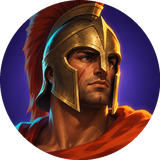
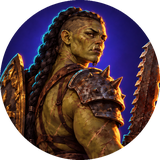
Portreler: 14 kahraman kullanıcı tasarımlarından bugünkü stilde yeniden üretildi
Claude-Session: https://claude.ai/code/session_01T7LLnVG2eHFoAXpQ6vCWxw

diff --git a/CLAUDE.md b/CLAUDE.md
@@ -130,7 +130,7 @@ Haxball tarzı yuvarlak token karakterli 2D MOBA. Tarayıcıda çalışır, şim
 11. Bot ayar araması (evolve) en son, denge oturunca.
 - Üretilmiş görseller: assets/menu_bg.jpg (menü arka planı) ve assets/portre/<id>.jpg (menü kart portreleri), yerel Stable Diffusion DreamShaper 8 ile (tools/sdgen.mjs, tools/sd_portreler.mjs; ham çıktılar assets/sd/). WebUI: Masaüstü\StableDiffusion\webui-user.bat, API localhost:7860. Gemini ücretsiz kotası 0 (kullanılamıyor).
 - Higgsfield görselleri (10.10.2026, ~34 kredi): model GPT Image 2.5 (flare, low, 0,25 kredi; Z Image denendi, daha zayıf). assets/menu_bg2.jpg (menü), assets/pause_bg.jpg (duraklatma/sonuç), assets/tex/{ground,lane,rock,bush}.jpg (aynalanarak dikişsiz; art.js texFill/texReady, paintMap'te düşük alfa overlay, yüklenmezse eski çizim), assets/items/<id>.jpg (100 eşya/parça simgesi, mağazada main.js icoImg, HUD yuvalarında render.js itemIcon; yüklenmezse kısaltma rozeti). Menü döngü videosu MiniMax H3 Max 480p 5 sn, başlangıç=bitiş karesi (7,5 kredi): assets/menu_loop.webm + .mp4 (menu.js menuVideo; açılmazsa CSS görseli). Ham çıktılar assets/hf_raw/ (gitignore). Dükkân binası assets/shop.png (GPT Image 2.5 saydam, render.js drawShops SHOP_IMG; yüklenmezse canvas çizimi). Ekran görüntüleri docs/hf/.
-- Kahraman portreleri (15.10.2026, Higgsfield GPT Image 2.5 low, 14 görsel, 3,5 kredi): 'Gece Vahası' tarzı büst portreler, lacivert-mor sade zemin. assets/portre/<id>.jpg (384, menü kartları ve seçim ızgarası; eski SD portreler yerine, gladiator/roller artık var), assets/token/<id>.png (160, daire kırpılmış). art.js tokenImg/drawToken: görsel yüklüyse iç diske (r*0.78) kırpılır, takım halkası dışta kalır; yüklenmezse simge diski. Oyundaki token, HUD portresi, skor tablosu ve minimap (r 7 token) aynı çizimi kullanır. Ham çıktılar assets/hf_raw/portre/. Ekran: docs/gorsel/token_oyun.png.
+- Kahraman portreleri (15.10.2026, Higgsfield GPT Image 2.5 low, 14 görsel, 3,5 kredi): 'Gece Vahası' tarzı büst portreler, lacivert-mor sade zemin. assets/portre/<id>.jpg (384, menü kartları ve seçim ızgarası; eski SD portreler yerine, gladiator/roller artık var), assets/token/<id>.png (160, daire kırpılmış). art.js tokenImg/drawToken: görsel yüklüyse iç diske (r*0.78) kırpılır, takım halkası dışta kalır; yüklenmezse simge diski. Oyundaki token, HUD portresi, skor tablosu ve minimap (r 7 token) aynı çizimi kullanır. Ham çıktılar assets/hf_raw/portre/. Ekran: docs/gorsel/token_oyun.png. Yeniden üretim (15.10.2026, 3,5 kredi): 14 kahramanın hepsi kullanıcının kendi karakter tasarımlarından (kaynak görseller, karakter = kaynak, stil = bugünkü portre; GPT Image 2.5 low, iki referans görsel) yeniden çizildi; eski portre/token yedekleri assets/hf_raw/portre/eski/. Kontrol: docs/gorsel/portreler.png.
 - Git: github.com/kayikyaki-coder/2dmoba-game (main). Masaüstü\Oyunu-Guncelle.bat: git pull --ff-only (yerel değişiklik varsa stash'e alır) ve oyunu açar. old/, assets/sd/, *.log gitignore'da. Her işten sonra commit + push.
 
 
